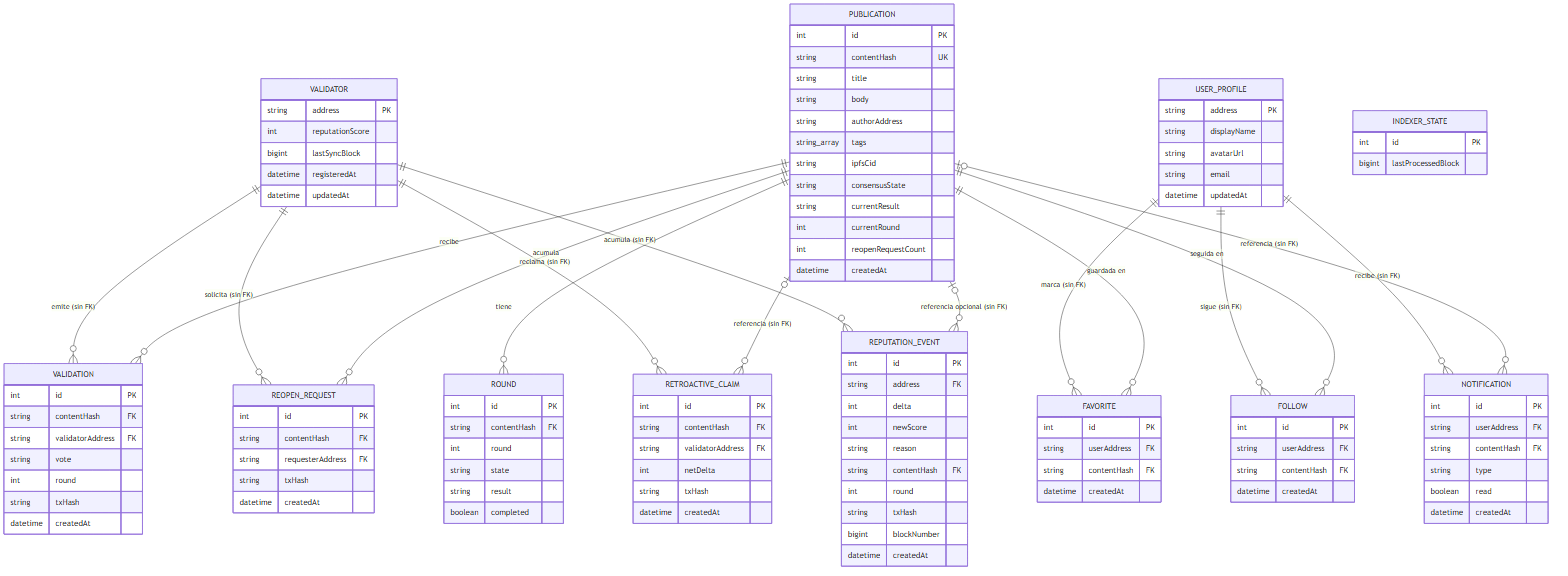
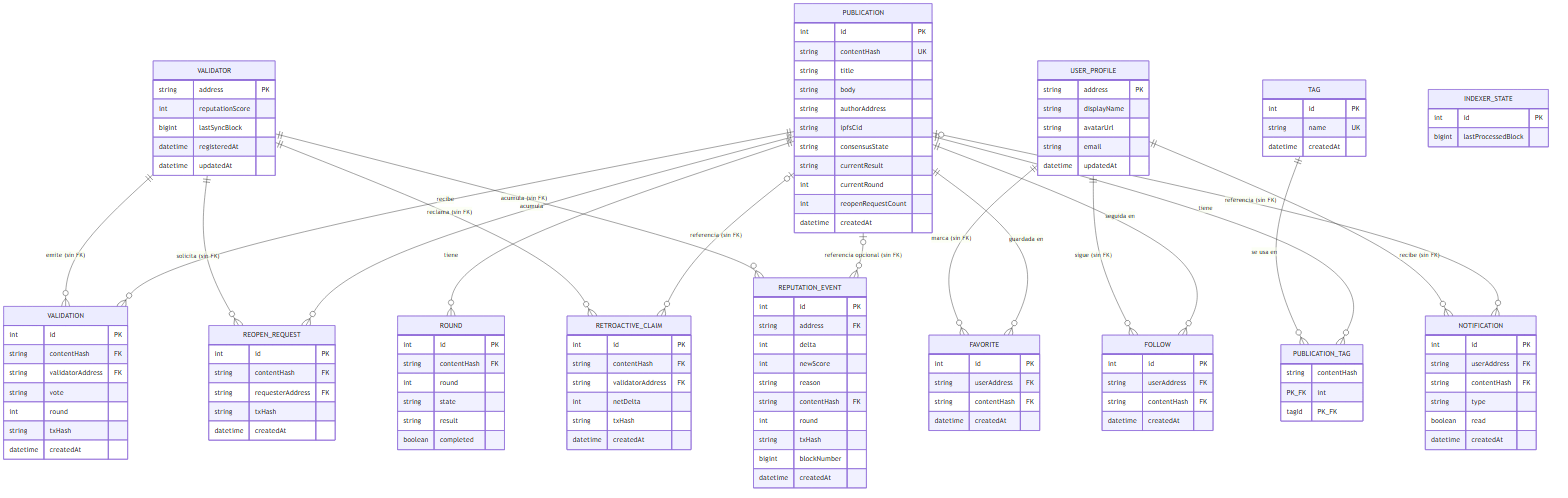
feat(backend): persistencia real de etiquetas — tabla Tag + PublicationTag
Las etiquetas dejan de ser un array suelto (`Publication.tags: String[]`)
sin identidad ni forma de consultarlas fuera de las publicaciones que las
usan. Ahora tienen persistencia propia:

- Nuevo modelo `Tag` (id, name único, createdAt) y tabla de unión N:M
  `PublicationTag` (contentHash, tagId) con FK reales a ambos lados.
- Migración con backfill: antes de borrar la columna `tags`, vuelca su
  contenido sobre las tablas nuevas (unnest + INSERT) — no se pierde
  ninguna etiqueta ya persistida. Verificado 1:1 contra los datos reales
  del stack (45 referencias de etiqueta, 16 distintas, antes y después).
- publication.repository.ts: filtro por etiqueta pasa de `hasSome` sobre
  el array a `tagLinks.some.tag.name.in`; create/setContent escriben la
  relación con `connectOrCreate` (reutiliza la fila de Tag si ya existe,
  la crea si no — las etiquetas siguen siendo libres, sin catálogo
  cerrado); listDistinctTags() consulta la tabla Tag directamente en vez
  de deduplicar en memoria sobre un array por fila.
- favorite.repository.ts: la publicación anidada en cada favorito también
  aplana `tagLinks` a `tags: string[]` — es el único otro sitio que
  devuelve una Publication completa embebida.
- Forma de la API sin cambios (`tags: string[]` en request/response): el
  frontend (TagPicker, filtros de /noticias) no necesita ningún cambio.
- Makefile: `make fresh-start` trunca también `tags`/`publication_tags`
  para un reinicio realmente limpio.
[…]

diff --git a/backend/src/repositories/publication.repository.ts b/backend/src/repositories/publication.repository.ts
@@ -2,6 +2,28 @@ import { prisma } from "../lib/prisma.js";
 
 export type PublicationSort = "recent" | "votes" | "state";
 
+const TAG_LINKS_INCLUDE = { tagLinks: { include: { tag: true } } } as const;
+
+/** Aplana la relación `tagLinks` (join con Tag) de vuelta a `tags: string[]`
+ * — la forma que espera el resto de la API, sin filtrar la tabla de unión
+ * hacia fuera de la capa de repositorio. */
+function shapeTags<T extends { tagLinks: { tag: { name: string } }[] }>(
+  p: T,
+): Omit<T, "tagLinks"> & { tags: string[] } {
+  const { tagLinks, ...rest } = p;
+  return { ...rest, tags: tagLinks.map((l) => l.tag.name) };
+}
+
+/** Datos de creación anidada para `PublicationTag`: `connectOrCreate` por
+ * nombre — reutiliza la fila de Tag si ya existe (etiquetas libres, sin
+ * catálogo cerrado) o la crea al vuelo. Dedupe defensivo: un mismo nombre
+ * repetido en `tags` violaría la clave compuesta (contentHash, tagId). */
+function tagLinksCreateData(tags: string[]) {
+  return [...new Set(tags)].map((name) => ({
+    tag: { connectOrCreate: { where: { name }, create: { name } } },
+  }));
+}
+
 export interface ListPublicationsParams {
   page: number;
   limit: number;
@@ -19,7 +41,7 @@ export const publicationRepository = {
       ...(state ? { consensusState: state } : {}),
       ...(result ? { currentResult: result } : {}),
       ...(author ? { authorAddress: author } : {}),
-      ...(tags && tags.length > 0 ? { tags: { hasSome: tags } } : {}),
+      ...(tags && tags.length > 0 ? { tagLinks: { some: { tag: { name: { in: tags } } } } } : {}),
       ...(search
         ? {
             OR: [
@@ -41,12 +63,12 @@ export const publicationRepository = {
         orderBy,
         skip: (page - 1) * limit,
         take: limit,
-        include: { _count: { select: { validations: true } } },
+        include: { _count: { select: { validations: true } }, ...TAG_LINKS_INCLUDE },
       }),
       prisma.publication.count({ where }),
     ]);
 
-    const shaped = items.map(({ _count, ...rest }) => ({ ...rest, voteCount: _count.validations }));
+    const shaped = items.map(({ _count, ...rest }) => ({ ...shapeTags(rest), voteCount: _count.validations }));
     if (sort === "votes") {
       shaped.sort((a, b) => b.voteCount - a.voteCount);
     }
@@ -55,13 +77,15 @@ export const publicationRepository = {
   },
 
   async getByHash(contentHash: string) {
-    return prisma.publication.findUnique({
+    const publication = await prisma.publication.findUnique({
       where: { contentHash },
       include: {
         rounds: { orderBy: { round: "asc" } },
         validations: { orderBy: { round: "asc" } },
+        ...TAG_LINKS_INCLUDE,
       },
     });
+    return publication ? shapeTags(publication) : null;
   },
 
   async existsByHash(contentHash: string): Promise<boolean> {
@@ -77,8 +101,13 @@ export const publicationRepository = {
     tags: string[];
     ipfsCid?: string;
   }) {
+    const { tags, ...rest } = data;
     // currentRound: 0 — las rondas on-chain empiezan en 0 (ver upsertFromChain).
-    return prisma.publication.create({ data: { ...data, currentRound: 0 } });
+    const created = await prisma.publication.create({
+      data: { ...rest, currentRound: 0, tagLinks: { create: tagLinksCreateData(tags) } },
+      include: TAG_LINKS_INCLUDE,
+    });
+    return shapeTags(created);
   },
 
   async upsertFromChain(data: { contentHash: string; authorAddress: string }) {
@@ -90,7 +119,6 @@ export const publicationRepository = {
         authorAddress: data.authorAddress,
         title: "",
         body: "",
-        tags: [],
         // Las rondas on-chain empiezan en 0 (ValidationRegistry.currentRound);
         // se sobrescribe aquí el valor por defecto del schema (1) para que
         // coincida con la ronda real que se abre al registrar la publicación.
@@ -105,16 +133,23 @@ export const publicationRepository = {
    * PublicationRegistered, que solo conoce contentHash/autor). Uso: scripts
    * de seed que registran contenido on-chain sin pasar por el flujo normal
    * `POST /api/v1/publications` (que rechazaría con 409 CONFLICT una fila
-   * que el indexador ya creó).
+   * que el indexador ya creó). Idempotente: sustituye por completo el
+   * conjunto de etiquetas en vez de acumularlas en cada re-siembra.
    */
   async setContent(
     contentHash: string,
     data: { title: string; body: string; tags: string[]; ipfsCid?: string },
   ) {
-    return prisma.publication.update({
+    const { tags, ...rest } = data;
+    const updated = await prisma.publication.update({
       where: { contentHash },
-      data,
+      data: {
+        ...rest,
+        tagLinks: { deleteMany: {}, create: tagLinksCreateData(tags) },
+      },
+      include: TAG_LINKS_INCLUDE,
     });
+    return shapeTags(updated);
   },
 
   async updateConsensusState(contentHash: string, consensusState: string, currentResult: string | null = null) {
@@ -139,17 +174,15 @@ export const publicationRepository = {
   },
 
   /**
-   * Etiquetas distintas ya en uso (las etiquetas son libres — cualquier autor
-   * puede escribir una nueva al publicar, no hay catálogo predefinido — así
-   * que el filtro del feed se puebla con lo que realmente existe en vez de
-   * una lista fija). Volumen de artículos bajo (prototipo): se listan todas
-   * y se deduplican en memoria en vez de un `unnest` SQL a mano.
+   * Etiquetas ya en uso (las etiquetas son libres — cualquier autor puede
+   * escribir una nueva al publicar, no hay catálogo cerrado — así que el
+   * filtro del feed se puebla con lo que realmente existe en vez de una
+   * lista fija). Con persistencia propia en `Tag`, es una consulta directa
+   * a esa tabla en vez de deduplicar en memoria sobre un array por fila.
    */
   async listDistinctTags(): Promise<string[]> {
-    const rows = await prisma.publication.findMany({ select: { tags: true } });
-    const set = new Set<string>();
-    for (const r of rows) for (const t of r.tags) set.add(t);
-    return [...set].sort((a, b) => a.localeCompare(b));
+    const rows = await prisma.tag.findMany({ select: { name: true }, orderBy: { name: "asc" } });
+    return rows.map((r) => r.name);
   },
 
   async findTitlesByHashes(contentHashes: string[]) {

diff --git a/backend/src/repositories/favorite.repository.ts b/backend/src/repositories/favorite.repository.ts
@@ -1,5 +1,15 @@
 import { prisma } from "../lib/prisma.js";
 
+/** Misma forma que `Publication.tagLinks` en publication.repository.ts —
+ * aquí también hay que aplanarla, porque `listByUser` incluye la
+ * publicación completa anidada dentro de cada favorito. */
+function shapePublicationTags<T extends { tagLinks: { tag: { name: string } }[] }>(
+  p: T,
+): Omit<T, "tagLinks"> & { tags: string[] } {
+  const { tagLinks, ...rest } = p;
+  return { ...rest, tags: tagLinks.map((l) => l.tag.name) };
+}
+
 export const favoriteRepository = {
   async exists(userAddress: string, contentHash: string): Promise<boolean> {
     const count = await prisma.favorite.count({ where: { userAddress, contentHash } });
@@ -21,10 +31,10 @@ export const favoriteRepository = {
         orderBy: { createdAt: "desc" },
         skip: (page - 1) * limit,
         take: limit,
-        include: { publication: true },
+        include: { publication: { include: { tagLinks: { include: { tag: true } } } } },
       }),
       prisma.favorite.count({ where: { userAddress } }),
     ]);
-    return { items, total };
+    return { items: items.map((f) => ({ ...f, publication: shapePublicationTags(f.publication) })), total };
   },
 };
